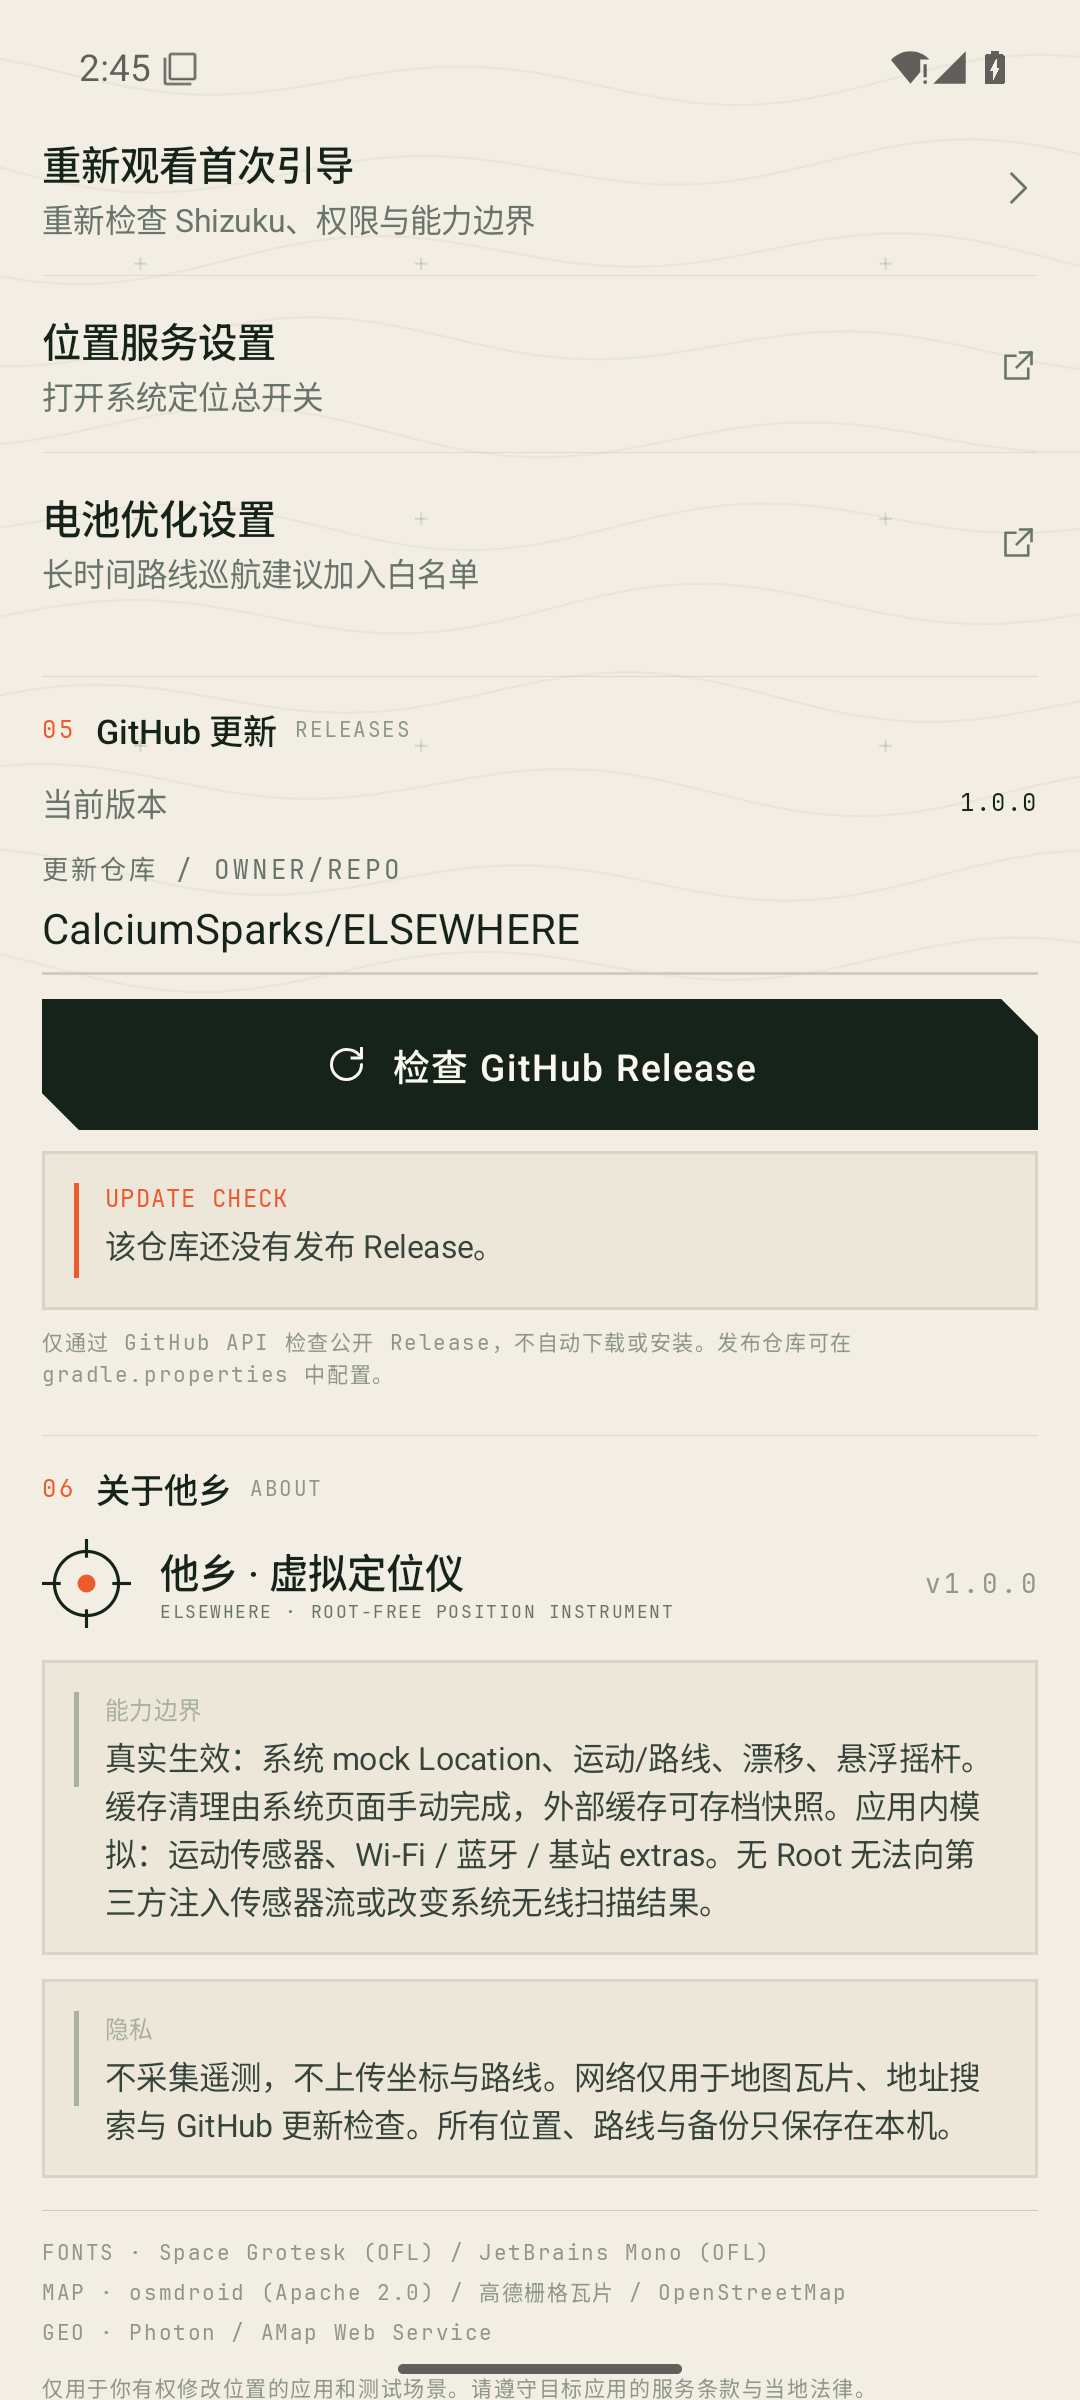
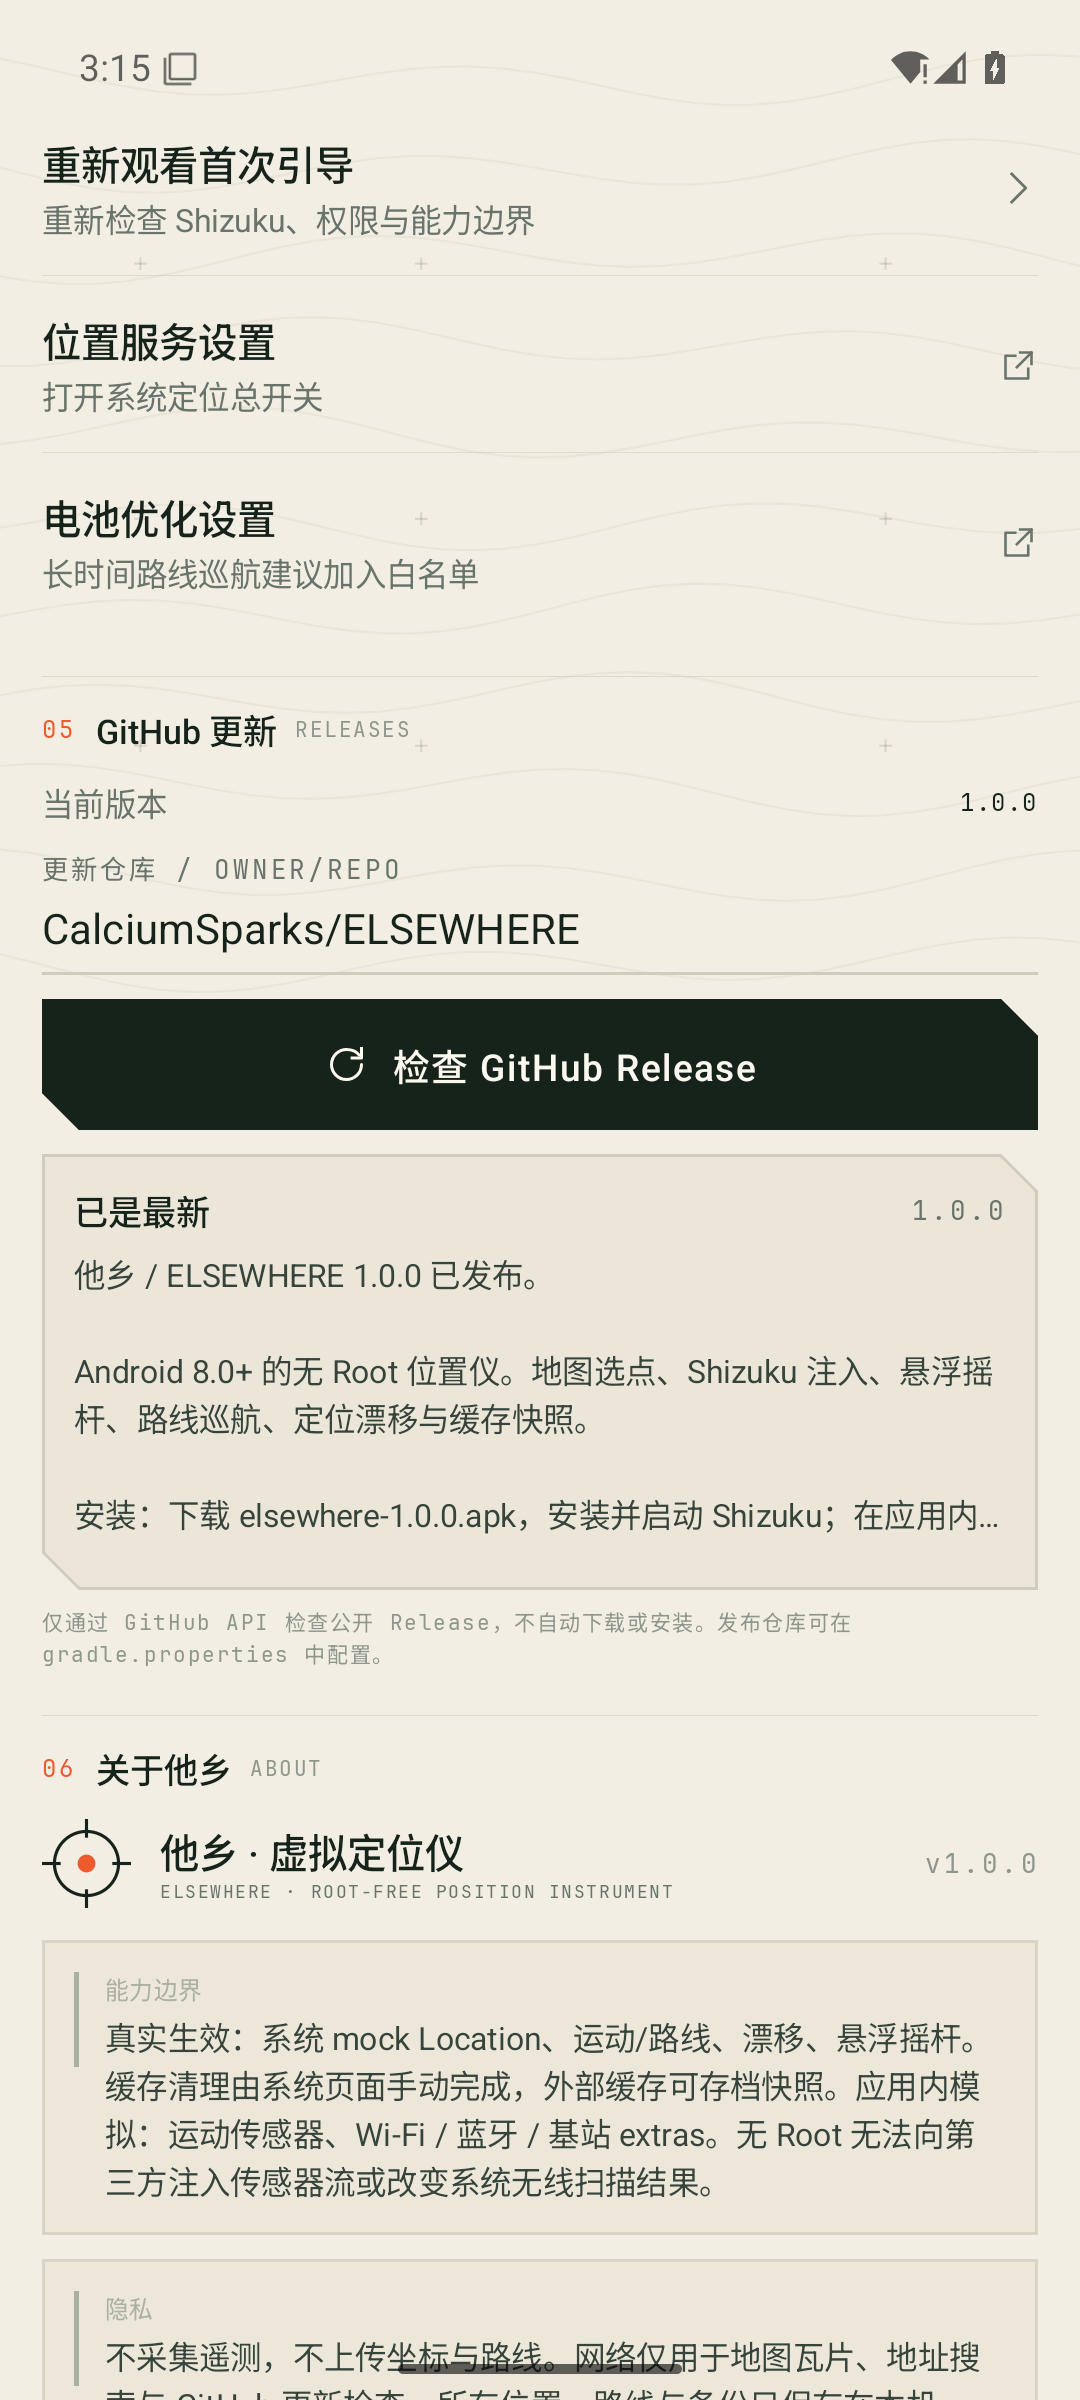
docs: record v1.0.0 GitHub release and verified update check

diff --git a/README.md b/README.md
@@ -7,7 +7,7 @@
 - 平台：Android 8.0+（API 26+），targetSdk 35
 - 形态：单 APK，本地优先，无账号、无遥测、无 Root
 - 仓库：[CalciumSparks/ELSEWHERE](https://github.com/CalciumSparks/ELSEWHERE)
-- 发行版：[GitHub Releases](https://github.com/CalciumSparks/ELSEWHERE/releases)
+- 发行版：[v1.0.0](https://github.com/CalciumSparks/ELSEWHERE/releases/tag/v1.0.0)
 - 设计记录：[docs/DESIGN.md](docs/DESIGN.md) · 验证记录：[docs/TESTING.md](docs/TESTING.md)
 
 ![他乡地图主界面](docs/screenshots/03-map.png)
@@ -95,13 +95,13 @@
 
 ### 安装
 
-从 [GitHub Releases](https://github.com/CalciumSparks/ELSEWHERE/releases) 下载 APK 后：
+从 [v1.0.0 Release](https://github.com/CalciumSparks/ELSEWHERE/releases/tag/v1.0.0) 下载 `elsewhere-1.0.0.apk` 后：
 
 ```powershell
 adb install <downloaded>.apk
 ```
 
-当前源码仓库还没有发布第一个 Release；从源码构建时安装 `app/build/outputs/apk/debug/app-debug.apk`。首次打开会进入三步校准。
+发行版 v1.0.0 已发布。从源码构建时安装 `app/build/outputs/apk/debug/app-debug.apk`。首次打开会进入三步校准。
 
 ### 准备 Shizuku（推荐）
 
@@ -208,7 +208,7 @@ adb install <downloaded>.apk
 
 ### 其他说明
 
-- 更新检查不自动下载 APK；默认读取 [`CalciumSparks/ELSEWHERE`](https://github.com/CalciumSparks/ELSEWHERE) 的公开 Release，没发布 Release 时会显示「该仓库还没有发布 Release」。发布入口见仓库 Releases。
+- 更新检查不自动下载 APK；默认读取 [`CalciumSparks/ELSEWHERE`](https://github.com/CalciumSparks/ELSEWHERE) 的公开 Release。v1.0.0 已发布，当前应用版本相同，检查会显示「已是最新」并展示 Release 说明。
 - 高德栅格底图与 Web 地理编码服务有各自的条款；应用不内置任何 API Key。
 - Photon 地理编码、OpenStreetMap 底图、GitHub API 均需要网络。
 - 真实 GPS 在室内可能只能得到缓存定位；界面会明确标出。
@@ -274,7 +274,7 @@ Remove-Item dist\elsewhere-1.0.0-aligned.apk
 ELSEWHERE_UPDATE_REPO=CalciumSparks/ELSEWHERE
 ```
 
-也可以在应用「系统与诊断 → GitHub 更新」中编辑仓库地址，点「检查 GitHub Release」后会保存。版本比较读取公开 Release 的 `tag_name`；无 Release 时给出空状态。应用只展示版本、更新说明和下载入口，不自动下载安装。当前远端仓库尚未发布 Release，因此首次检查会返回「该仓库还没有发布 Release」；在 GitHub 上发布 Release 后即可正常显示版本。
+也可以在应用「系统与诊断 → GitHub 更新」中编辑仓库地址，点「检查 GitHub Release」后会保存。版本比较读取公开 Release 的 `tag_name`；无 Release 时给出空状态。应用只展示版本、更新说明和下载入口，不自动下载安装。当前 `v1.0.0` 已发布，应用版本相同，因此会显示「已是最新」；发布更高版本后会显示新版本卡片和下载入口。
 
 ---
 

diff --git a/docs/TESTING.md b/docs/TESTING.md
@@ -164,9 +164,10 @@ cell_network_type=LTE
 
 ### 2.11 GitHub 更新检查
 
-- 更新源已配置为 [`CalciumSparks/ELSEWHERE`](https://github.com/CalciumSparks/ELSEWHERE)；远端目前没有公开 Release，界面显示「该仓库还没有发布 Release。」，不崩溃。
-- 临时切换到有 Release 的公开仓库后，成功解析到 `13.6.0`、更新说明和下载按钮，说明网络、JSON、版本比较与状态渲染链路可用。
-- 在 GitHub 上创建首个 Release 后，默认更新源即可正常返回版本信息；发布产物可同时上传到该 Release。
+- 更新源已配置为 [`CalciumSparks/ELSEWHERE`](https://github.com/CalciumSparks/ELSEWHERE)，并已发布 `v1.0.0` Release（APK + SHA256SUMS 资产）。
+- 应用版本同为 `1.0.0`，检查返回 `tag_name=v1.0.0`、发布说明和 APK 资产，界面正确显示「已是最新」而不会误报更新。
[1 lines of base64/hex data omitted]
+- 无 Release / 网络异常路径此前也已验证，分别显示空状态和错误信息，不崩溃。
 - 证据：[`29-update-check.png`](screenshots/29-update-check.png)。
 
 ---

diff --git a/docs/screenshots/README.md b/docs/screenshots/README.md
@@ -19,6 +19,6 @@ All screenshots are from the Android 15 emulator (`elsewhere_api35`, 1080 × 240
 | `21-environment.png` | Drift, preset selection, Wi-Fi source enabled |
 | `22-environment-sources.png` | Radio fields and Location extras injection preview |
 | `26-route-overlay.png` | Auto route cruise overlay with ring progress |
-| `29-update-check.png` | GitHub Release check against CalciumSparks/ELSEWHERE; no published Release yet |
+| `29-update-check.png` | GitHub Release check against CalciumSparks/ELSEWHERE; v1.0.0 published, app reports latest |
 
 Screenshots are not retouched; only the device status bar is part of the capture. The route-cruise screenshot contains live injected coordinates produced by the app.
